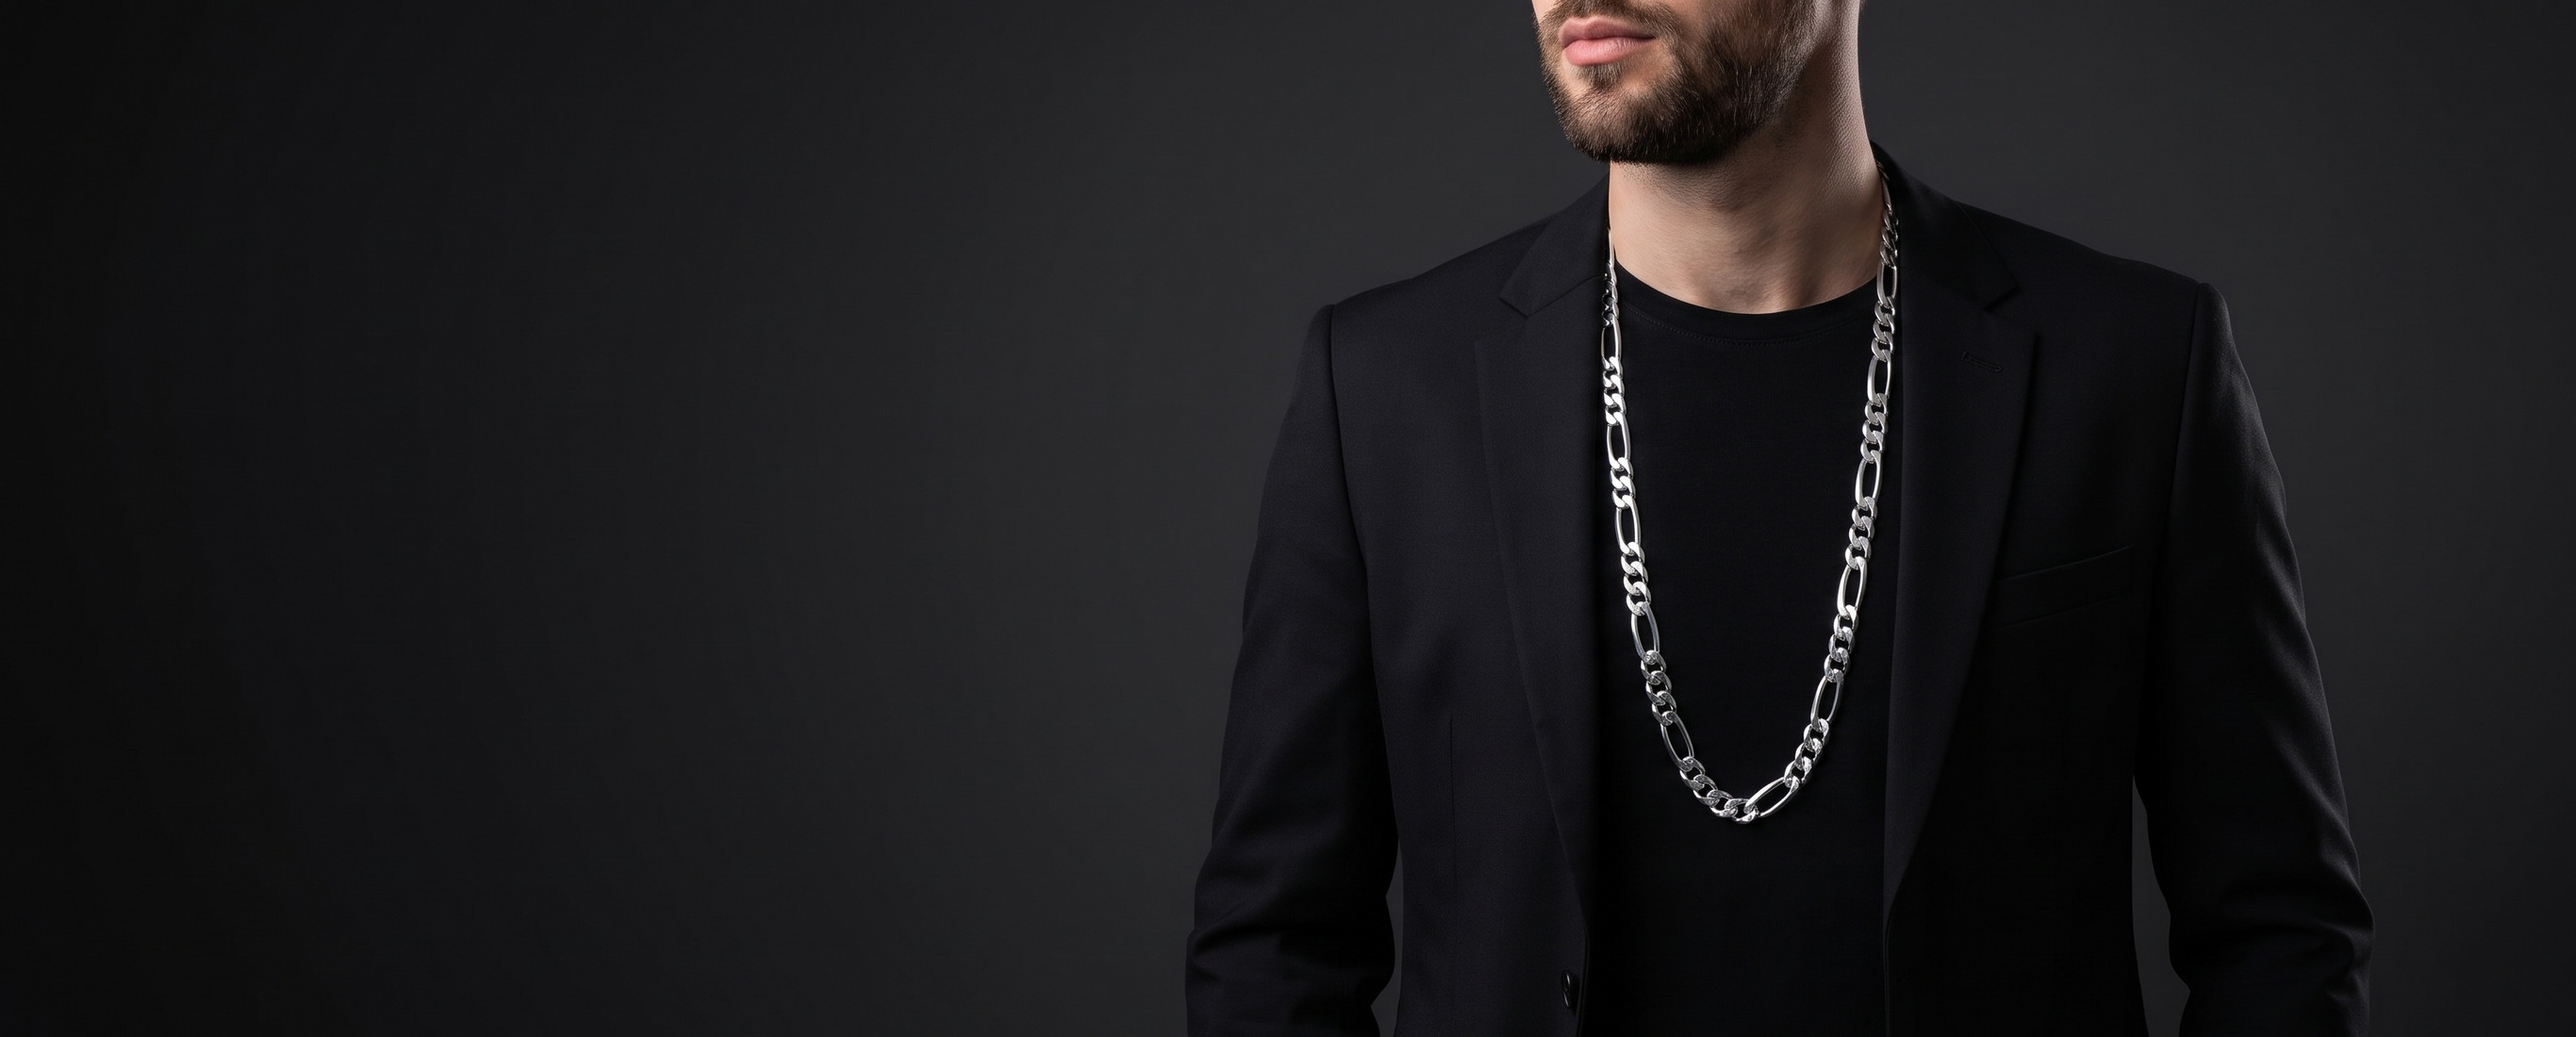
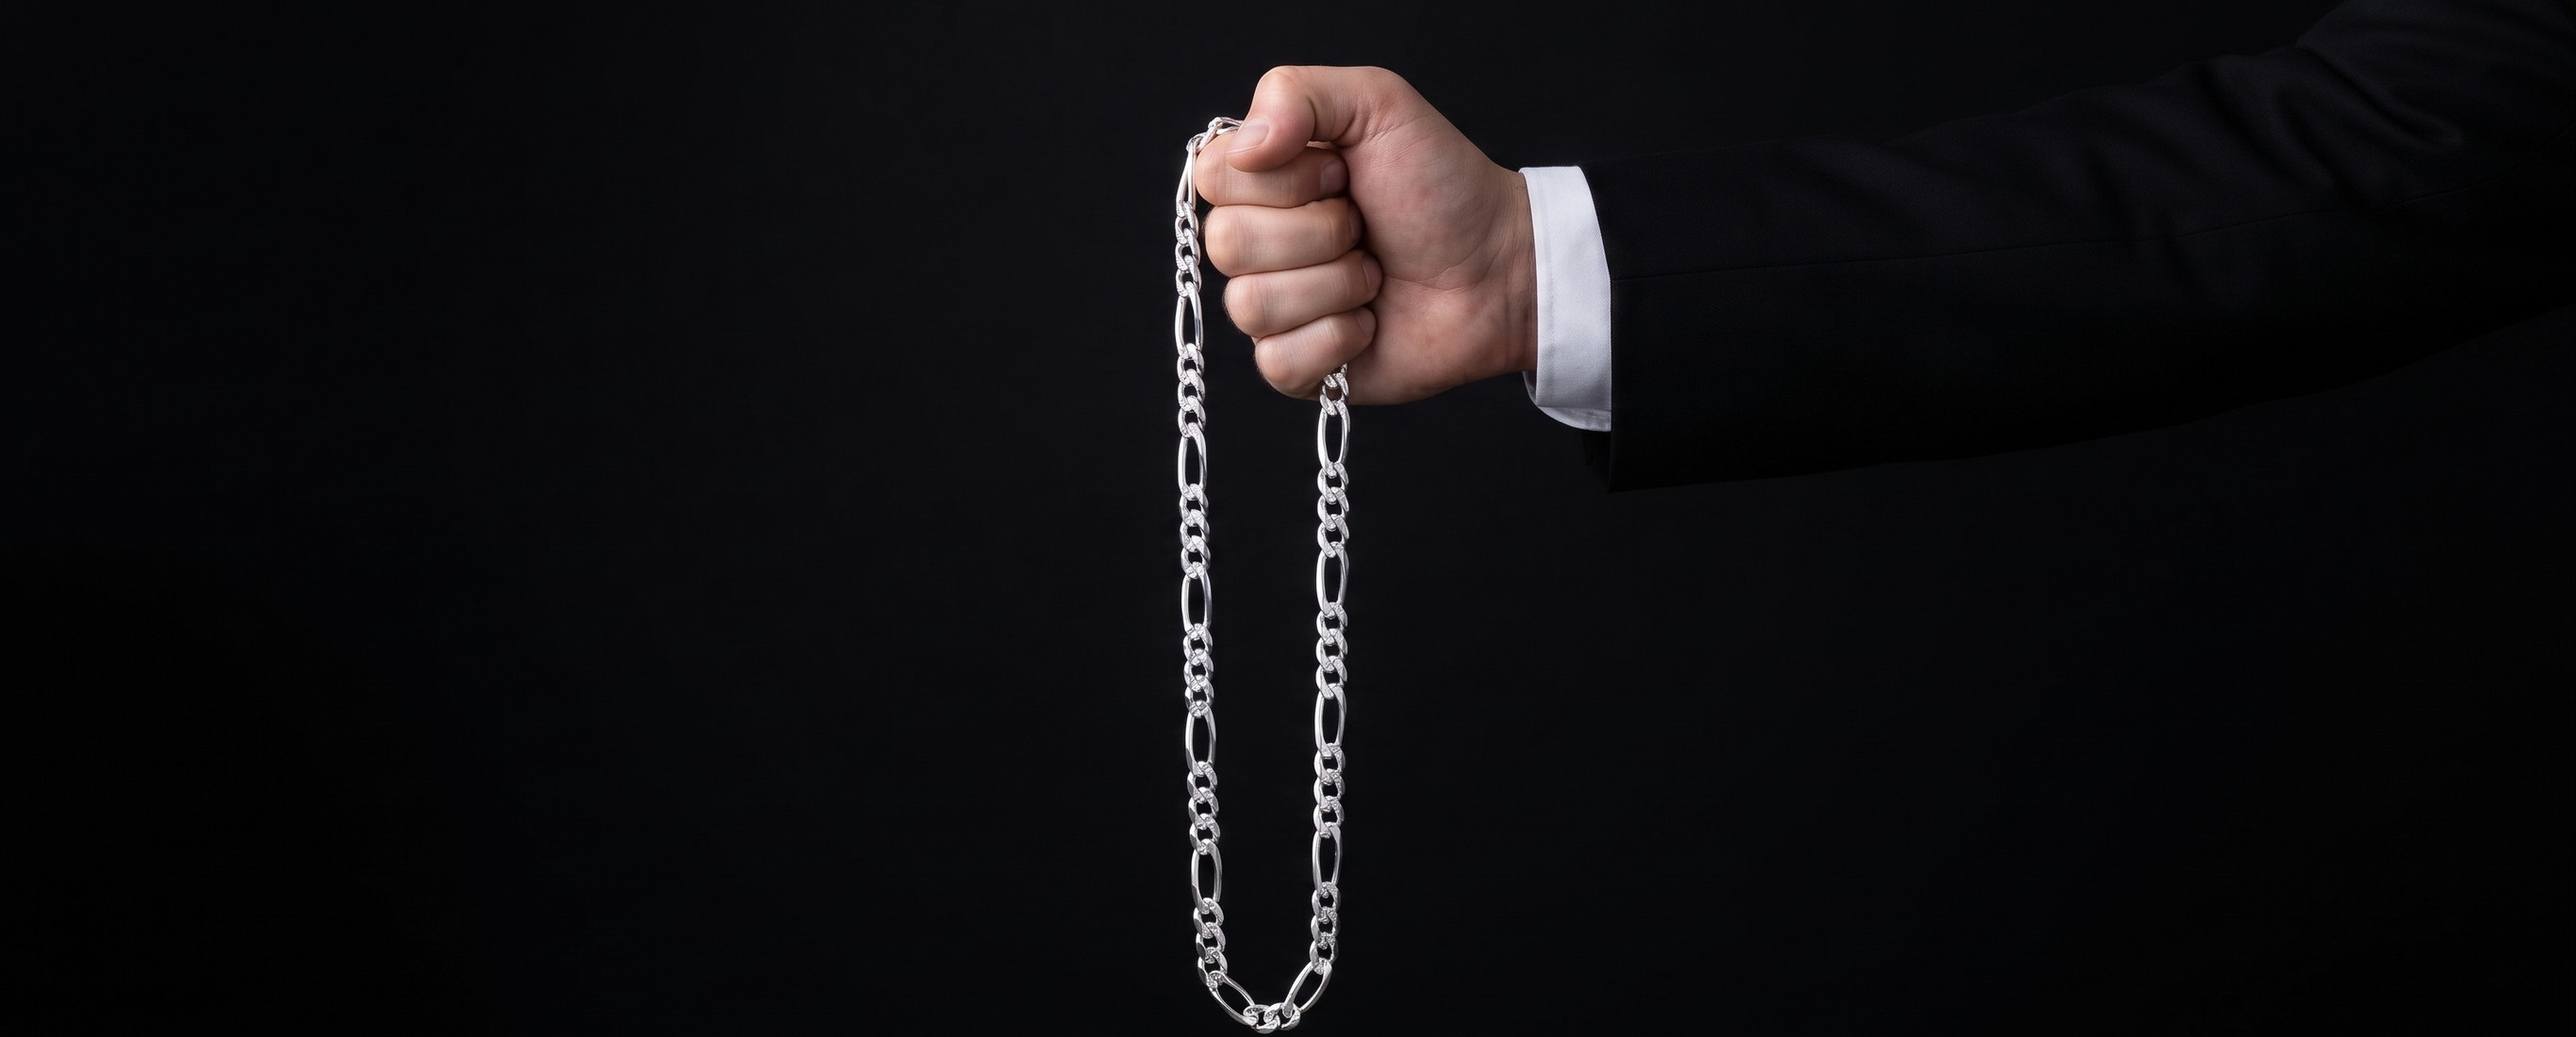
Colecciones: cabeceras de esclavas, pulseras y subcolecciones de cadenas conectadas

Changed region(s): [[0.3422, 0.0, 1.0, 1.0], [0.8089, 0.7727, 0.8712, 1.0], [0.9956, 0.0, 1.0, 0.0309]]

diff --git a/index.html b/index.html
@@ -3,7 +3,7 @@
 <meta charset="utf-8">
 <title>Montaris</title>
 <link rel="stylesheet" href="https://fonts.googleapis.com/css2?family=Archivo:wdth,wght@112,700;125,800&family=Cinzel:wght@600;700&family=Manrope:wght@400;500;600;700;800&display=swap">
-<link rel="stylesheet" href="menu.css?v=1792755487">
+<link rel="stylesheet" href="menu.css?v=1792755646">
 <style>
 html,body{overflow-x:clip}body{touch-action:pan-y}
 
@@ -1012,11 +1012,11 @@ button.btn{cursor:pointer;font-family:inherit}
 
 <div class="toast" id="toast" role="status"></div>
 
-<script src="catalogo.js?v=1792755487" charset="utf-8"></script>
-<script src="bolsa.js?v=1792755487" charset="utf-8"></script>
-<script src="menu.js?v=1792755487" charset="utf-8"></script>
+<script src="catalogo.js?v=1792755646" charset="utf-8"></script>
+<script src="bolsa.js?v=1792755646" charset="utf-8"></script>
+<script src="menu.js?v=1792755646" charset="utf-8"></script>
 <script>
-// Portada Montaris. El catálogo viene de catalogo.js?v=1792755487 (const CAT). precio:null = "Precio por confirmar".
+// Portada Montaris. El catálogo viene de catalogo.js?v=1792755646 (const CAT). precio:null = "Precio por confirmar".
 const byId={};CAT.forEach(p=>byId[p.id]=p);
 const SUBT={'cadenas/cartier':'Cadenas Cartier','cadenas/barbada':'Cadenas barbadas','cadenas/torzal':'Cadenas torzal','cadenas/marinera':'Cadenas marineras','cadenas/planchada':'Cadenas planchadas','cadenas/delgadas':'Cadenas delgadas','esclavas/placa':'Esclavas con placa','esclavas/petatillo':'Esclava Petatillo','esclavas/rolex':'Esclavas tipo Rolex','esclavas/barbada':'Esclava barbada','esclavas/cartier':'Esclavas Cartier','pulseras/diseno':'Pulsos de diseño','pulseras/cubana':'Cubana con zirconias','pulseras/pulsos':'Pulsos'};
 const ORD=[...CAT].sort((a,b)=>(b.etiquetas.includes('nuevo')-a.etiquetas.includes('nuevo'))||(b.id-a.id));
@@ -1099,7 +1099,7 @@ document.querySelectorAll('[data-rota]').forEach((vp,k)=>{const sl=[...vp.queryS
  corre()})();
 (function(){const els=[...document.querySelectorAll('main .sec > .wrap, #bloques .sec > .wrap')];els.forEach(e=>e.classList.add('rv'));if(!('IntersectionObserver' in window)){els.forEach(e=>e.classList.add('in'));return}const io=new IntersectionObserver(es=>es.forEach(x=>{if(x.isIntersecting){x.target.classList.add('in');io.unobserve(x.target)}}),{threshold:.15});els.forEach(e=>io.observe(e));setTimeout(()=>els.forEach(e=>e.classList.add('in')),4000)})();
 
-// bolsa: bolsa.js?v=1792755487 guarda, cuenta (#n) y trae su panel (se abre con el ícono de bolsa, "Comprar" va a pago.html)
+// bolsa: bolsa.js?v=1792755646 guarda, cuenta (#n) y trae su panel (se abre con el ícono de bolsa, "Comprar" va a pago.html)
 const toast=document.getElementById('toast');
 function aviso(t){toast.textContent=t;toast.classList.add('on');clearTimeout(toast._t);toast._t=setTimeout(()=>toast.classList.remove('on'),1800)}
 const hayB=()=>window.Bolsa&&typeof Bolsa.agregar==='function';
@@ -1110,8 +1110,8 @@ function agrega(id){const p=byId[id];if(!p)return;
 document.addEventListener('click',e=>{const a=e.target.closest('.plus');if(!a)return;e.preventDefault();e.stopPropagation();agrega(+a.dataset.id);a.classList.add('ok');a.textContent='✓'});
 document.getElementById('btn-bolsa').addEventListener('click',()=>{if(!hayB())aviso(nLocal?nLocal+(nLocal>1?' piezas':' pieza')+' en tu carrito':'Tu carrito está vacío')});
 
-// soporte: los demás botones de soporte abren el mismo panel que #btn-soporte (lo arma menu.js?v=1792755487)
-// (los botones data-soporte los engancha menu.js?v=1792755487)
+// soporte: los demás botones de soporte abren el mismo panel que #btn-soporte (lo arma menu.js?v=1792755646)
+// (los botones data-soporte los engancha menu.js?v=1792755646)
 
 // header siempre visible: negro al bajar
 (function(){const hdr=document.getElementById('hdr');let tk=false;

diff --git a/coleccion.html b/coleccion.html
@@ -7,7 +7,7 @@
 <meta name="description" content="Joyería de plata .925 con sello. Cadenas, esclavas y pulseras con fotos reales de cada pieza.">
 <link rel="preconnect" href="https://fonts.googleapis.com">
 <link rel="stylesheet" href="https://fonts.googleapis.com/css2?family=Archivo:wdth,wght@112,700;125,800&family=Cinzel:wght@600;700&family=Manrope:wght@400;500;600;700;800&display=swap">
-<link rel="stylesheet" href="menu.css?v=1792755487">
+<link rel="stylesheet" href="menu.css?v=1792755646">
 <style>
 html,body{overflow-x:clip}body{touch-action:pan-y}
 
@@ -471,9 +471,9 @@ footer{background:#111;color:#cfcfcf;padding-block:48px calc(36px + env(safe-are
 
 <div class="toast" id="toast" role="status"></div>
 
-<script src="catalogo.js?v=1792755487"></script>
-<script src="bolsa.js?v=1792755487"></script>
-<script src="menu.js?v=1792755487"></script>
+<script src="catalogo.js?v=1792755646"></script>
+<script src="bolsa.js?v=1792755646"></script>
+<script src="menu.js?v=1792755646"></script>
 <script>
 (function(){
 const $=s=>document.querySelector(s);
@@ -502,7 +502,7 @@ const BANCOL={hombre:'col-hombre-v10',mujer:'col-mujer-v10',novedades:'col-noved
   'pulseras/cubana':'col-pulseras-cubana','pulseras/pulsos':'col-pulseras-pulsos','pulseras/diseno':'col-pulseras-diseno'};
 // encuadre especial de la foto de escritorio (object-position)
 const POSCOL={'col-pulseras-pulsos':'100% 50%','col-regalos-v10':'50% 95%'};
-const LISTOS=new Set(['col-cadenas-barbada','col-cadenas-delgadas','col-cadenas-torzal','col-cadenas-v10','col-esclavas','col-esclavas-petatillo','col-esclavas-placa','col-hombre-v10','col-mujer-v10','col-novedades-v10','col-pulseras','col-pulseras-cubana','col-pulseras-diseno','col-pulseras-pulsos','col-regalos-v10']);
+const LISTOS=new Set(['col-cadenas-barbada','col-cadenas-cartier','col-cadenas-delgadas','col-cadenas-torzal','col-cadenas-v10','col-esclavas','col-esclavas-barbada','col-esclavas-cartier','col-esclavas-petatillo','col-esclavas-placa','col-esclavas-rolex','col-hombre-v10','col-mujer-v10','col-novedades-v10','col-pulseras','col-pulseras-cubana','col-pulseras-diseno','col-pulseras-pulsos','col-regalos-v10']);
 const BANSUB={'cadenas/cartier':48,'cadenas/barbada':50,'cadenas/torzal':52,'cadenas/marinera':46,'cadenas/planchada':53,'cadenas/delgadas':38,'esclavas/placa':1,'esclavas/petatillo':27,'esclavas/rolex':30,'esclavas/barbada':35,'esclavas/cartier':36,'pulseras/cubana':28,'pulseras/pulsos':31,'pulseras/diseno':33};
 
 const P=new URLSearchParams(location.search);

diff --git a/producto.html b/producto.html
@@ -8,7 +8,7 @@
 <link rel="icon" href="img/favicon.png">
 <link rel="preconnect" href="https://fonts.googleapis.com">
 <link rel="stylesheet" href="https://fonts.googleapis.com/css2?family=Archivo:wdth,wght@112,700;125,800&family=Cinzel:wght@600;700&family=Manrope:wght@400;500;600;700;800&display=swap">
-<link rel="stylesheet" href="menu.css?v=1792755487">
+<link rel="stylesheet" href="menu.css?v=1792755646">
 <style>
 html,body{overflow-x:clip}body{touch-action:pan-y}
 
@@ -469,9 +469,9 @@ footer{background:#111;color:#cfcfcf;padding-block:48px calc(140px + env(safe-ar
 
 <div class="fija" id="fija" aria-hidden="true"><div class="fija-in"><div class="fija-p"><img id="fija-img" src="data:," alt="" width="52" height="52"><div><b id="fija-n"></b><span id="fija-pr">Precio por confirmar</span></div></div><div class="fija-b"><button class="b-add" type="button" tabindex="-1" id="fija-add">Agregar al carrito</button><button class="b-buy" type="button" tabindex="-1" id="fija-buy">Comprar ahora</button></div></div></div>
 
-<script src="catalogo.js?v=1792755487" charset="utf-8"></script>
-<script src="bolsa.js?v=1792755487" charset="utf-8"></script>
-<script src="menu.js?v=1792755487" charset="utf-8"></script>
+<script src="catalogo.js?v=1792755646" charset="utf-8"></script>
+<script src="bolsa.js?v=1792755646" charset="utf-8"></script>
+<script src="menu.js?v=1792755646" charset="utf-8"></script>
 <script>
 (function(){
   var COL = {cadenas:'Cadenas', esclavas:'Esclavas', pulseras:'Pulseras'};

diff --git a/pago.html b/pago.html
@@ -8,7 +8,7 @@
 <link rel="icon" href="img/favicon.png">
 <link rel="preconnect" href="https://fonts.googleapis.com">
 <link rel="stylesheet" href="https://fonts.googleapis.com/css2?family=Archivo:wdth,wght@112,700;125,800&family=Cinzel:wght@600;700&family=Manrope:wght@400;500;600;700;800&display=swap">
-<link rel="stylesheet" href="menu.css?v=1792755487">
+<link rel="stylesheet" href="menu.css?v=1792755646">
 <style>
 html,body{overflow-x:clip}body{touch-action:pan-y}
 
@@ -233,9 +233,9 @@ footer{background:#111;color:#cfcfcf;padding-block:48px calc(96px + env(safe-are
   <div class="pagos" aria-label="Formas de pago"><span>Aceptamos</span><img src="pay/visa.svg" alt="Visa"><img src="pay/master.svg" alt="Mastercard"><img src="pay/american_express.svg" alt="American Express"><img src="pay/mercado_pago.svg" alt="Mercado Pago"><img src="pay/kueski.svg" alt="Kueski Pay"></div>
 </div></footer>
 
-<script src="catalogo.js?v=1792755487" charset="utf-8"></script>
-<script src="bolsa.js?v=1792755487" charset="utf-8"></script>
-<script src="menu.js?v=1792755487" charset="utf-8"></script>
+<script src="catalogo.js?v=1792755646" charset="utf-8"></script>
+<script src="bolsa.js?v=1792755646" charset="utf-8"></script>
+<script src="menu.js?v=1792755646" charset="utf-8"></script>
 <script>
 (function(){
   function esc(s){ return String(s == null ? '' : s).replace(/[&<>"]/g, function(c){ return {'&':'&amp;','<':'&lt;','>':'&gt;','"':'&quot;'}[c]; }); }

diff --git a/mayoreo.html b/mayoreo.html
@@ -9,7 +9,7 @@
 <meta property="og:title" content="Mayoreo · Montaris"><meta property="og:image" content="img/ban/mayoreo-v7-escritorio.jpg">
 <link rel="preconnect" href="https://fonts.googleapis.com">
 <link rel="stylesheet" href="https://fonts.googleapis.com/css2?family=Archivo:wdth,wght@112,700;125,800&family=Cinzel:wght@600;700&family=Manrope:wght@400;500;600;700;800&display=swap">
-<link rel="stylesheet" href="menu.css?v=1792755487">
+<link rel="stylesheet" href="menu.css?v=1792755646">
 <style>
 /* ===== base, header y pie copiados de coleccion.html (23 oct 2026) ===== */
 
@@ -506,9 +506,9 @@ footer{background:#111;color:#cfcfcf;padding-block:48px calc(36px + env(safe-are
 
 <div class="toast" id="toast" role="status"></div>
 
-<script src="catalogo.js?v=1792755487"></script>
-<script src="bolsa.js?v=1792755487"></script>
-<script src="menu.js?v=1792755487"></script>
+<script src="catalogo.js?v=1792755646"></script>
+<script src="bolsa.js?v=1792755646"></script>
+<script src="menu.js?v=1792755646"></script>
 <script>
 /* Número de WhatsApp de Montaris: la web todavía no tiene uno. Ponlo aquí (52 + 10 dígitos, ej. "524491234567").
    Mientras esté vacío, WhatsApp abre con el mensaje listo y el cliente elige a quién mandarlo. */
